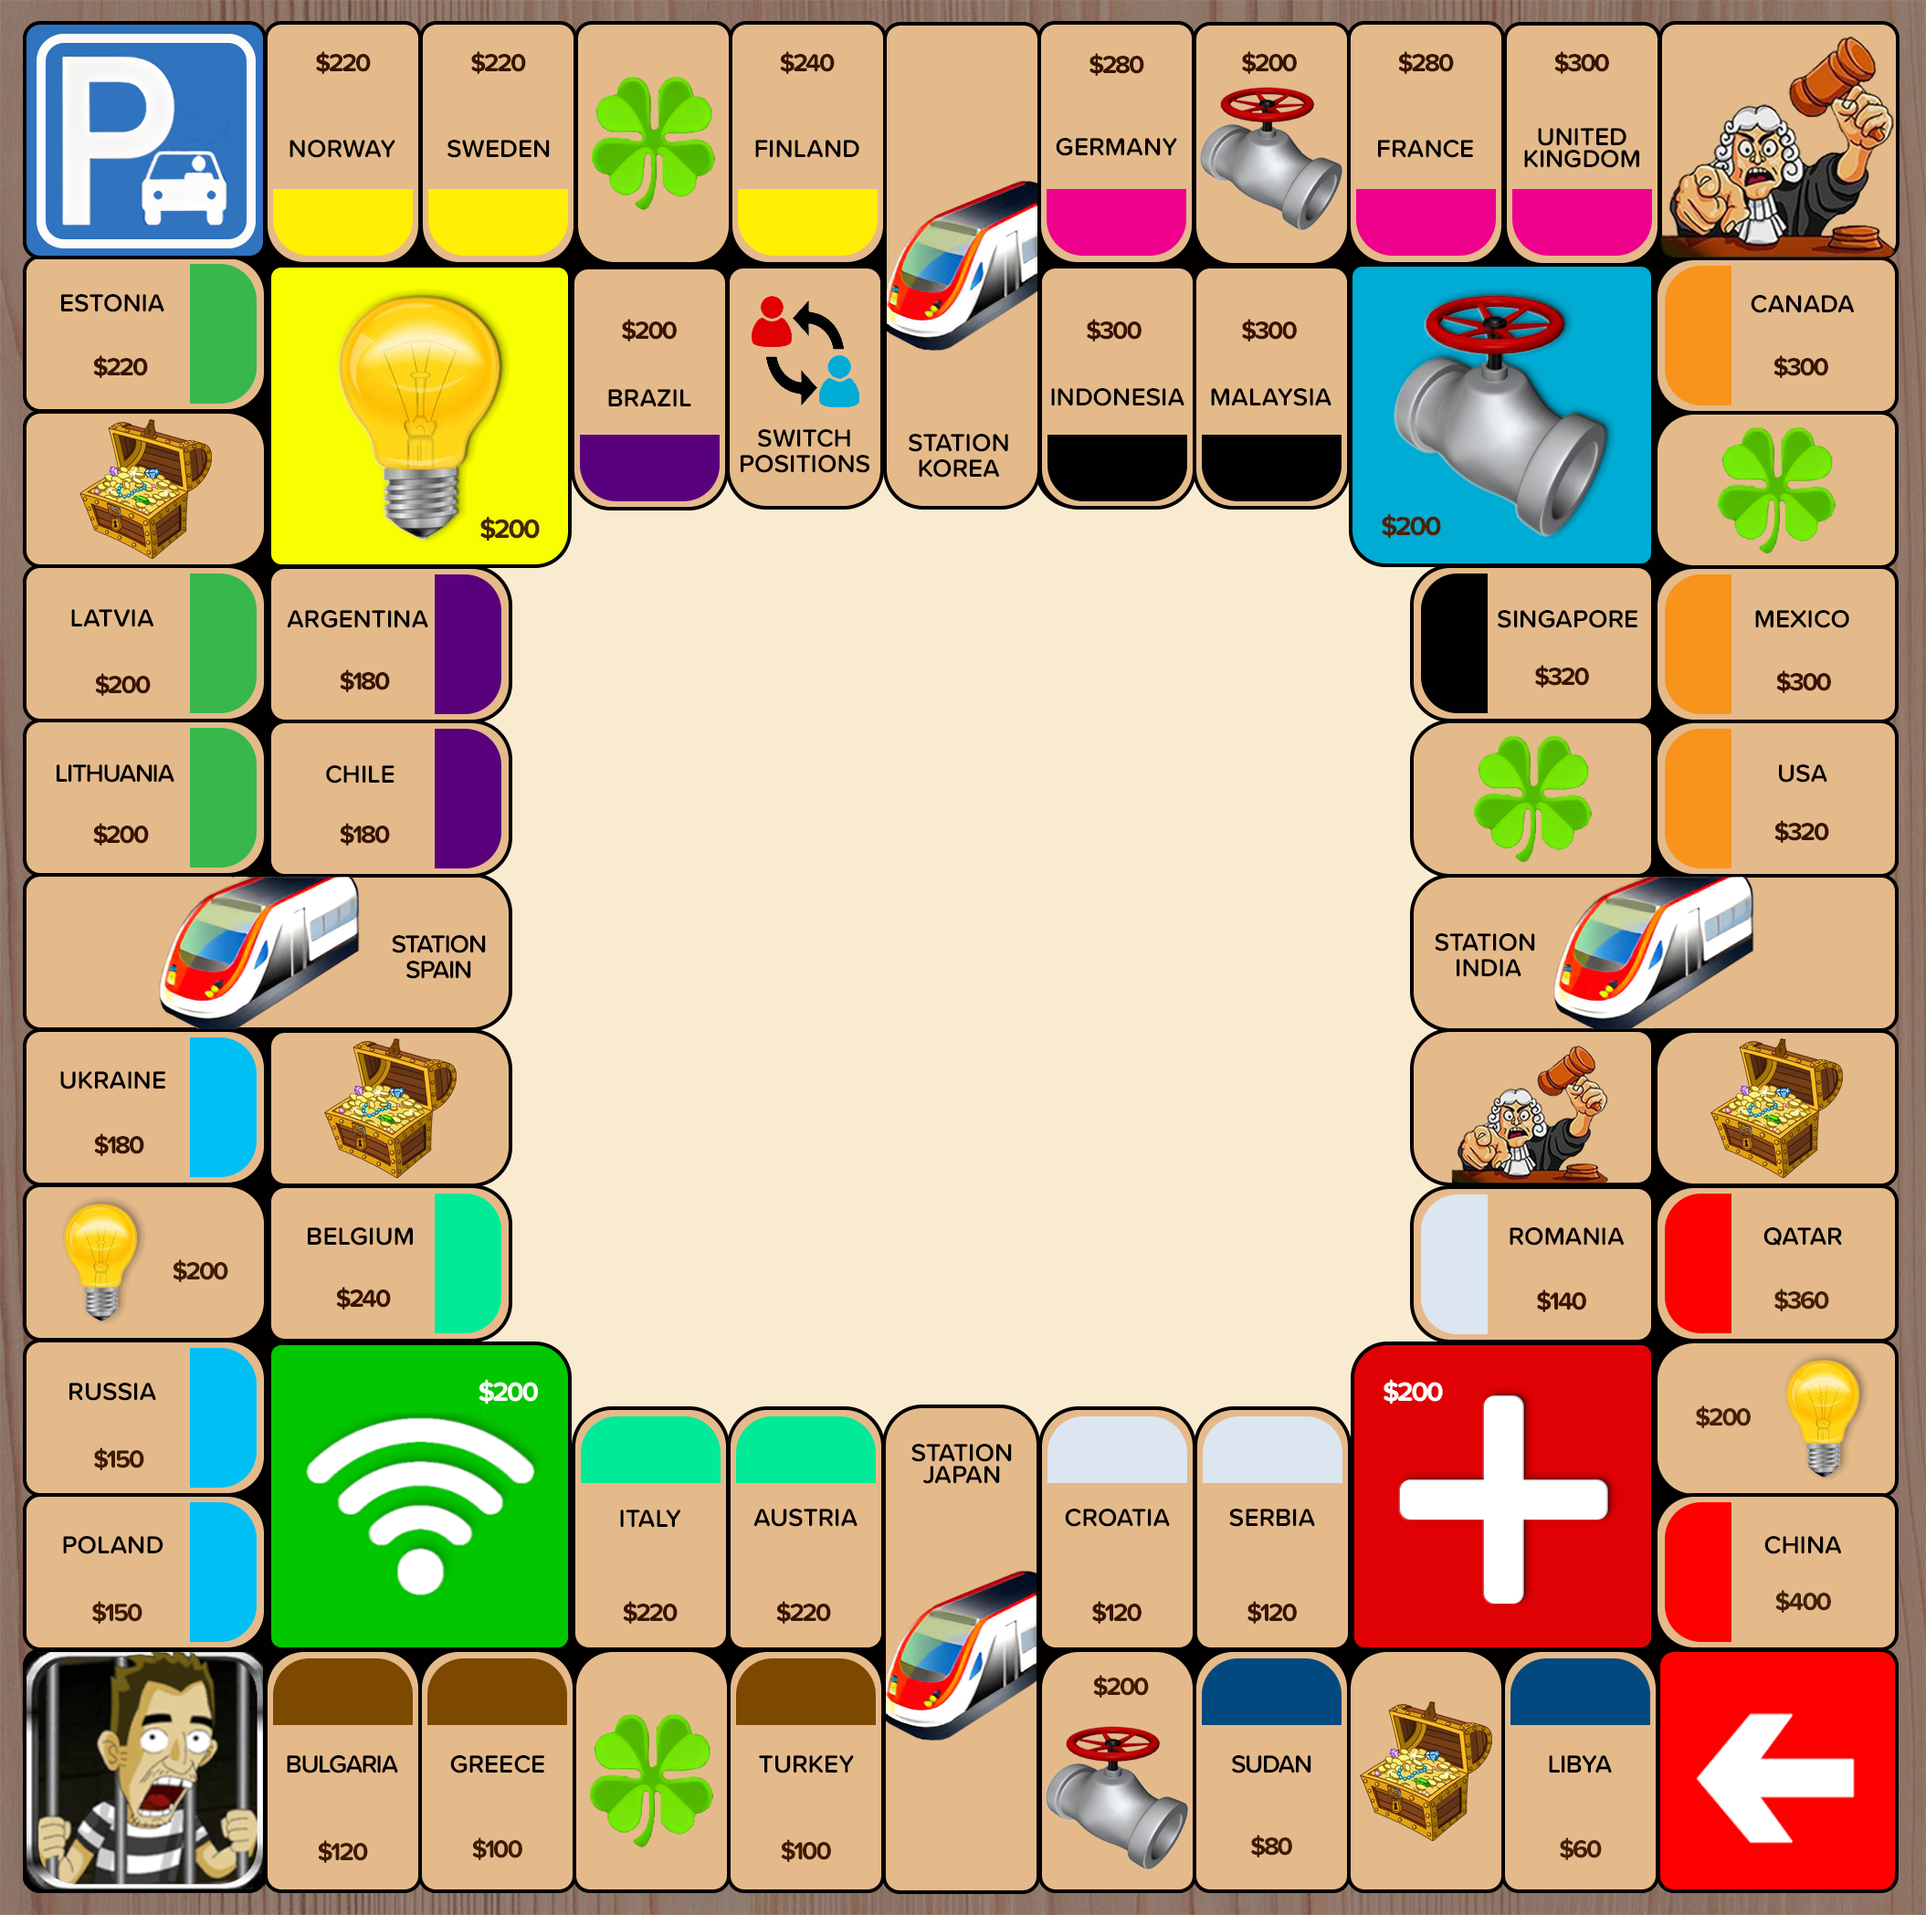
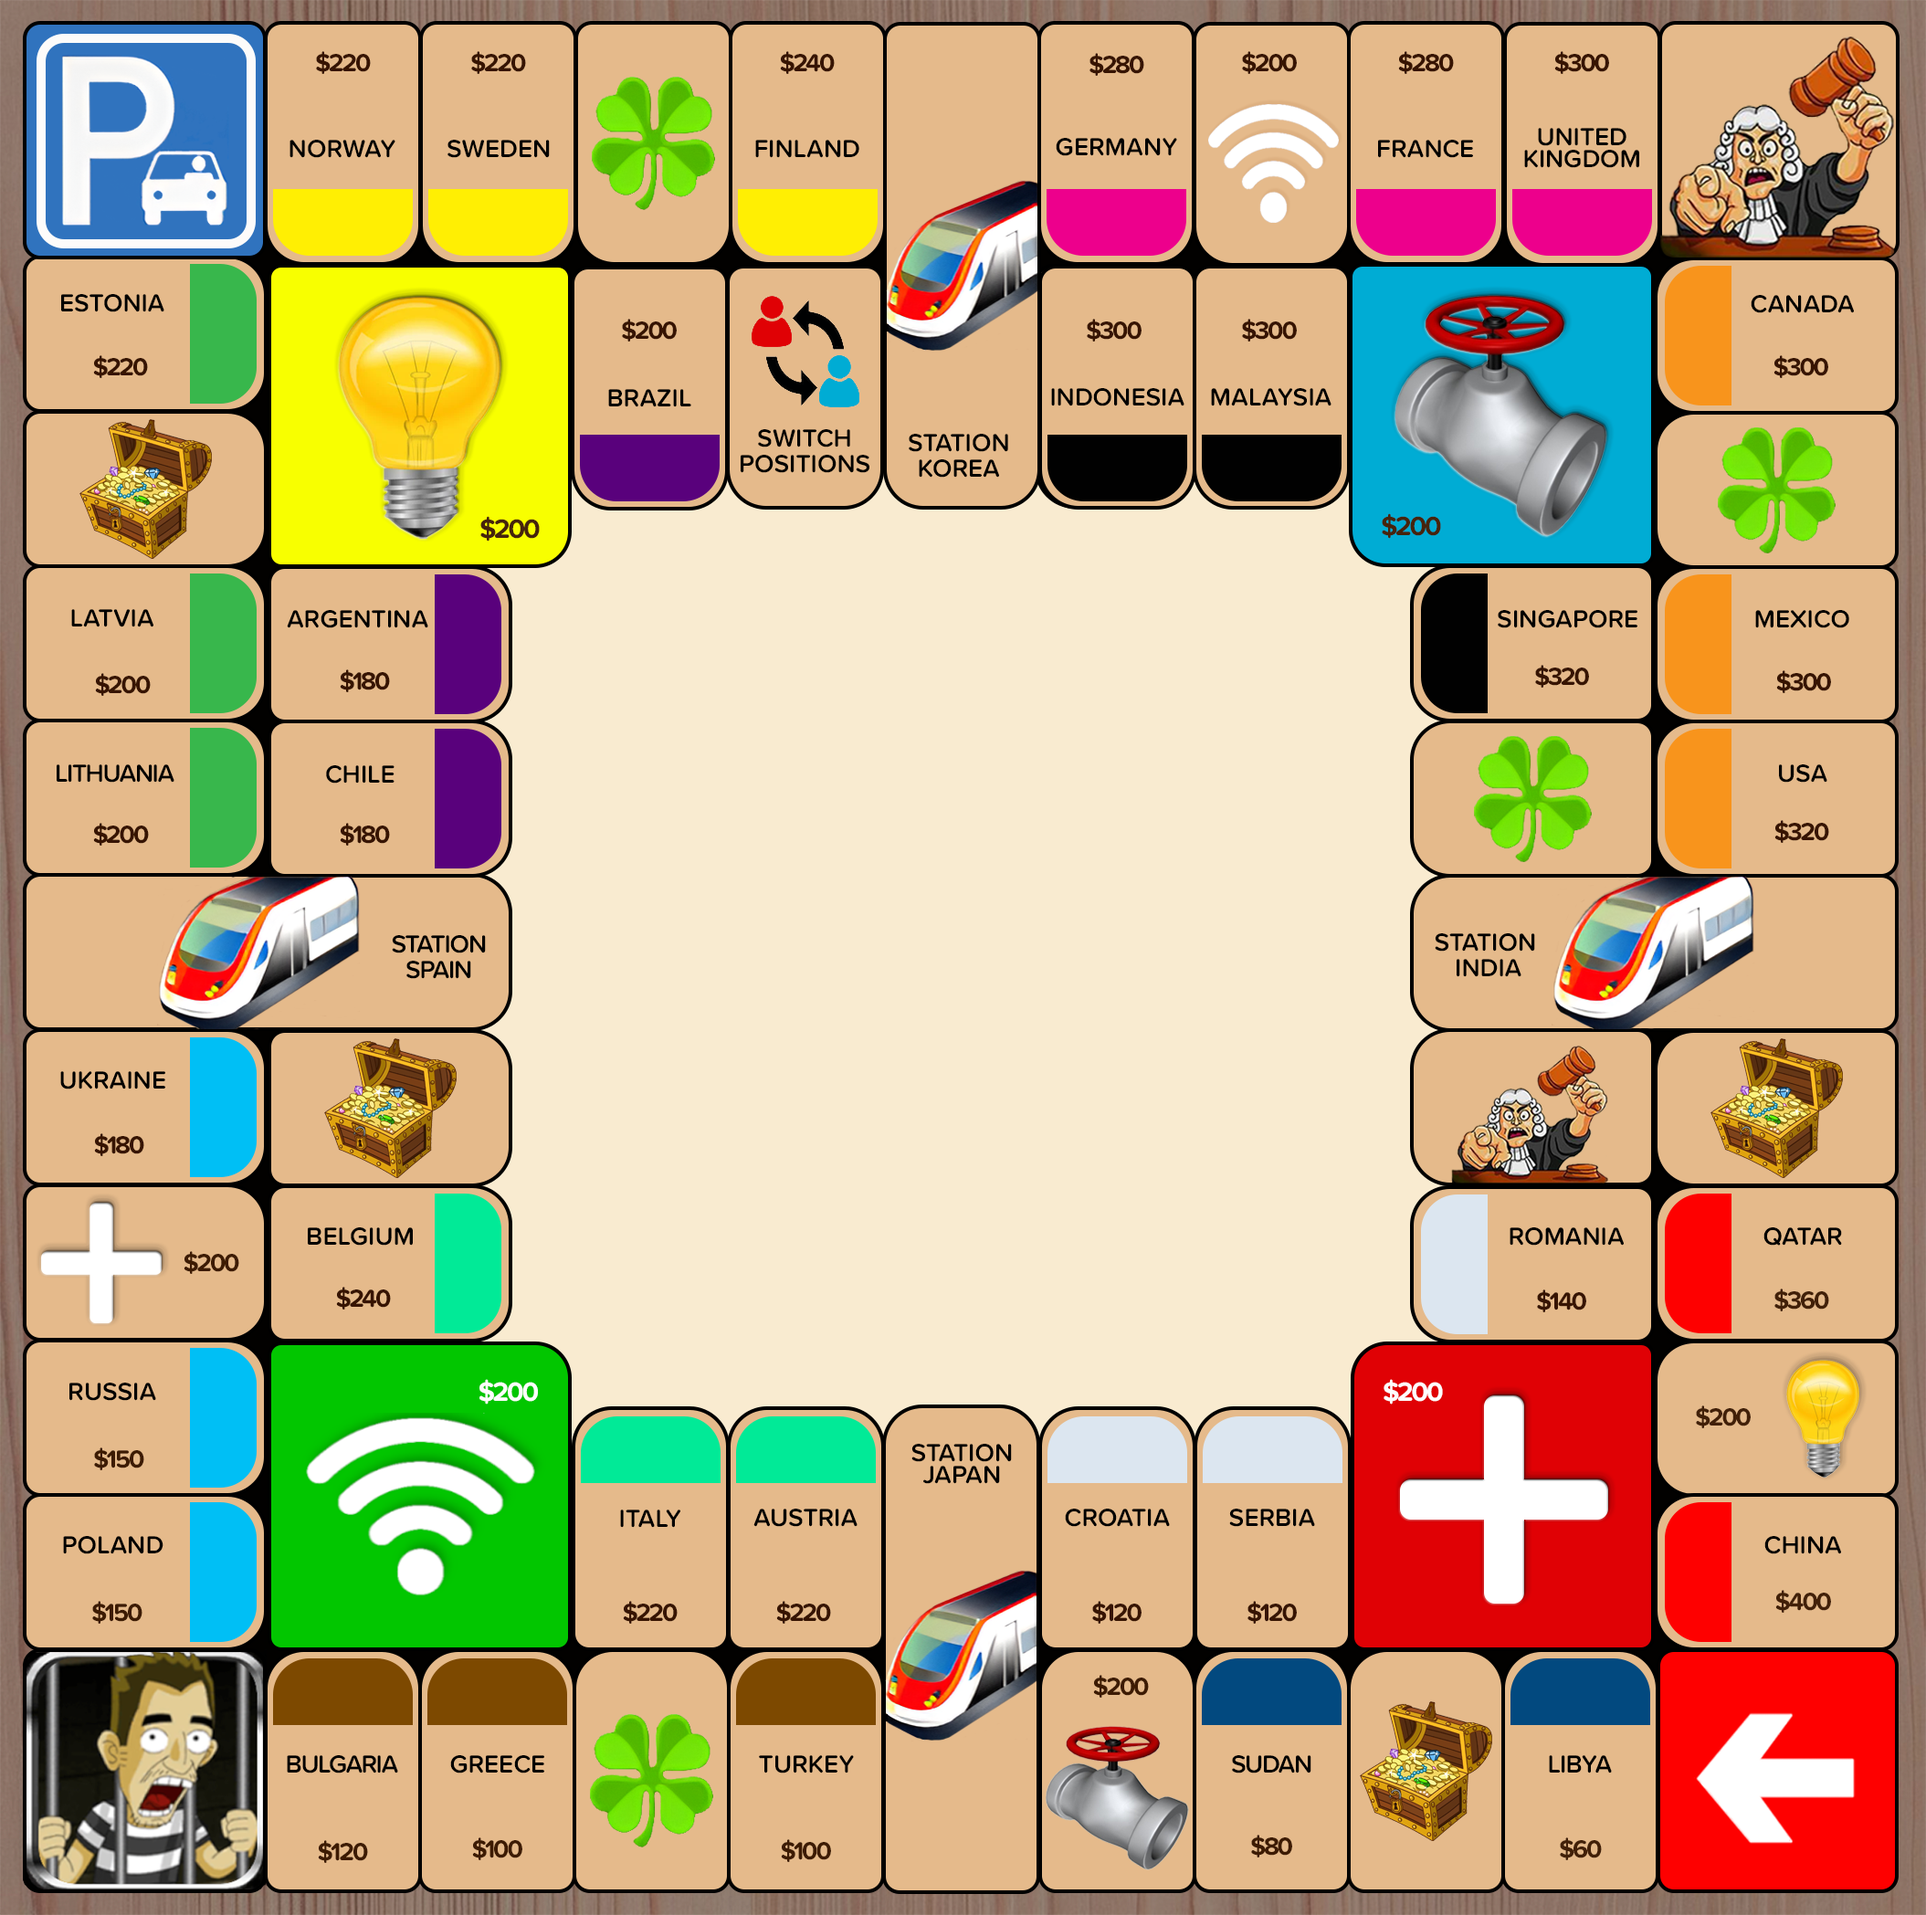
irc

Changed region(s): [[0.6164, 0.031, 0.7089, 0.124], [0.0, 0.6199, 0.1233, 0.7129], [0.7397, 0.155, 0.8013, 0.186]]

diff --git a/head.html b/head.html
@@ -62,12 +62,12 @@
 <button type="button" class="small-button" data-target="rentobot" data-from="player1bot" data-msg="!jailpay p1"><img src="key.jpg"></button>
 <a href="trade.html" target="_blank"><button type="button" class="small-button"><img src="p1.jpg"></button></a>
 <div style="width:1px;background:#888;margin:0 1px;"></div>
-<form action="/send-irc" method="POST" target="hiddenFrame"><input type="hidden" name="bot" value="player1bot"><input type="hidden" name="target" value="rentobot"><input type="hidden" name="msg" value="1"><button type="submit" class="small-button"><img src="g1.jpg"></button></form>
-<form action="/send-irc" method="POST" target="hiddenFrame"><input type="hidden" name="bot" value="player1bot"><input type="hidden" name="target" value="rentobot"><input type="hidden" name="msg" value="2"><button type="submit" class="small-button"><img src="g2.jpg"></button></form>
-<form action="/send-irc" method="POST" target="hiddenFrame"><input type="hidden" name="bot" value="player1bot"><input type="hidden" name="target" value="rentobot"><input type="hidden" name="msg" value="3"><button type="submit" class="small-button"><img src="g3.jpg"></button></form>
-<form action="/send-irc" method="POST" target="hiddenFrame"><input type="hidden" name="bot" value="player1bot"><input type="hidden" name="target" value="rentobot"><input type="hidden" name="msg" value="4"><button type="submit" class="small-button"><img src="g4.jpg"></button></form>
-<form action="/send-irc" method="POST" target="hiddenFrame"><input type="hidden" name="bot" value="player1bot"><input type="hidden" name="target" value="rentobot"><input type="hidden" name="msg" value="5"><button type="submit" class="small-button"><img src="g5.jpg"></button></form>
-<form action="/send-irc" method="POST" target="hiddenFrame"><input type="hidden" name="bot" value="player1bot"><input type="hidden" name="target" value="rentobot"><input type="hidden" name="msg" value="6"><button type="submit" class="small-button"><img src="g6.jpg"></button></form>
+<button type="button" class="small-button" data-target="rentobot" data-from="player1bot" data-msg="1"><img src="g1.jpg"></button>
+<button type="button" class="small-button" data-target="rentobot" data-from="player1bot" data-msg="2"><img src="g2.jpg"></button>
+<button type="button" class="small-button" data-target="rentobot" data-from="player1bot" data-msg="3"><img src="g3.jpg"></button>
+<button type="button" class="small-button" data-target="rentobot" data-from="player1bot" data-msg="4"><img src="g4.jpg"></button>
+<button type="button" class="small-button" data-target="rentobot" data-from="player1bot" data-msg="5"><img src="g5.jpg"></button>
+<button type="button" class="small-button" data-target="rentobot" data-from="player1bot" data-msg="6"><img src="g6.jpg"></button>
 <div style="width:1px;background:#888;margin:0 1px;"></div>
 <button type="button" class="small-button" data-target="rentobot" data-from="player1bot" data-msg="!bidadd 5"><img src="5.jpg"></button>
 <button type="button" class="small-button" data-target="rentobot" data-from="player1bot" data-msg="!bidadd 10"><img src="10.jpg"></button>
@@ -98,3 +98,4 @@ go3.dataset.msg=`!go${p+2}`;
 <script src="/head.js"></script>
 </body>
 </html>
+

diff --git a/trade-mobile.html b/trade-mobile.html
@@ -8,7 +8,7 @@
 <div id="boardWrapper">
 <div id="boardContainer">
 <div id="board">
-<img id="boardImg" src="map3.png">
+<img id="boardImg" src="map2.png">
 <div id="p1" class="piece red">p1</div>
 <div id="p2" class="piece blue">p2</div>
 <div id="p3" class="piece orange">p3</div>
@@ -81,3 +81,4 @@
 <script src="/trade.js"></script>
 </body>
 </html>
+

diff --git a/trade-tablet.html b/trade-tablet.html
@@ -8,7 +8,7 @@
 <div id="boardWrapper">
 <div id="boardContainer">
 <div id="board">
-<img id="boardImg" src="map3.png">
+<img id="boardImg" src="map2.png">
 <div id="p1" class="piece red">p1</div>
 <div id="p2" class="piece blue">p2</div>
 <div id="p3" class="piece orange">p3</div>
@@ -81,3 +81,4 @@
 <script src="/trade.js"></script>
 </body>
 </html>
+

diff --git a/trade.html b/trade.html
@@ -8,7 +8,7 @@
 <div id="boardWrapper">
 <div id="boardContainer">
 <div id="board">
-<img id="boardImg" src="map3.png">
+<img id="boardImg" src="map2.png">
 <div id="p1" class="piece red">p1</div>
 <div id="p2" class="piece blue">p2</div>
 <div id="p3" class="piece orange">p3</div>
@@ -85,3 +85,4 @@
 <script src="/trade.js"></script>
 </body>
 </html>
+

diff --git a/index.html b/index.html
@@ -8,7 +8,7 @@
 <body>
 <div id="boardWrapper">
 <div id="board">
-<img id="boardImg" src="map3.png">
+<img id="boardImg" src="map2.png">
 <div id="p1" class="piece red">p1</div>
 <div id="p2" class="piece blue">p2</div>
 <div id="p3" class="piece orange">p3</div>
@@ -70,3 +70,4 @@ Updates
 <script src="/index.js"></script>
 </body>
 </html>
+

diff --git a/admin.html b/admin.html
@@ -8,7 +8,7 @@
 <div id="boardWrapper">
 <div id="boardContainer">
 <div id="board">
-<img id="boardImg" src="map3.png" alt="Monopoly Board">
+<img id="boardImg" src="map2.png" alt="Monopoly Board">
 <div id="p1" class="piece red">p1</div>
 <div id="p2" class="piece blue">p2</div>
 <div id="p3" class="piece orange">p3</div>

diff --git a/computer.html b/computer.html
@@ -8,7 +8,7 @@
 <div id="boardWrapper">
 <div id="boardContainer">
 <div id="board">
-<img id="boardImg" src="map3.png" alt="Monopoly Board">
+<img id="boardImg" src="map2.png" alt="Monopoly Board">
 <div id="p1" class="piece red">p1</div>
 <div id="p2" class="piece blue">p2</div>
 <div id="p3" class="piece orange">p3</div>

diff --git a/mobile.html b/mobile.html
@@ -9,7 +9,7 @@
 <div id="boardWrapper">
 <div id="boardContainer">
 <div id="board">
-<img id="boardImg" src="map3.png" alt="Monopoly Board">
+<img id="boardImg" src="map2.png" alt="Monopoly Board">
 <div id="p1" class="piece red">p1</div>
 <div id="p2" class="piece blue">p2</div>
 <div id="p3" class="piece orange">p3</div>

diff --git a/tablet.html b/tablet.html
@@ -9,7 +9,7 @@
 <div id="boardWrapper">
 <div id="boardContainer">
 <div id="board">
-<img id="boardImg" src="map3.png" alt="Monopoly Board">
+<img id="boardImg" src="map2.png" alt="Monopoly Board">
 <div id="p1" class="piece red">p1</div>
 <div id="p2" class="piece blue">p2</div>
 <div id="p3" class="piece orange">p3</div>

diff --git a/p.js b/p.js
@@ -1,6 +1,6 @@
 const socket = io();
 const BOT_NAME = document.body.dataset.bot;
-let currentMap = 3;
+let currentMap = 2;
 let labels = {p1:'P1',p2:'P2',p3:'P3',p4:'P4',p5:'P5',p6:'P6'};
 let activeDots = {};
 let lastMoney = {p1:0,p2:0,p3:0,p4:0,p5:0,p6:0};

diff --git a/w.js b/w.js
@@ -1,6 +1,6 @@
 const socket = io();
 const BOT_NAME = document.body.dataset.bot;
-let currentMap = 3;
+let currentMap = 2;
 let labels = {p1:'P1',p2:'P2',p3:'P3',p4:'P4',p5:'P5',p6:'P6'};
 let activeDots = {};
 let lastMoney = {p1:0,p2:0,p3:0,p4:0,p5:0,p6:0};

diff --git a/trade.js b/trade.js
@@ -1,6 +1,6 @@
 const socket = io();
 const BOT_NAME = 'player1bot';
-let currentMap = 3;
+let currentMap = 2;
 let labels = {p1:'P1',p2:'P2',p3:'P3',p4:'P4',p5:'P5',p6:'P6'};
 let activeDots = {};
 let lastMoney = {p1:0,p2:0,p3:0,p4:0,p5:0,p6:0};
